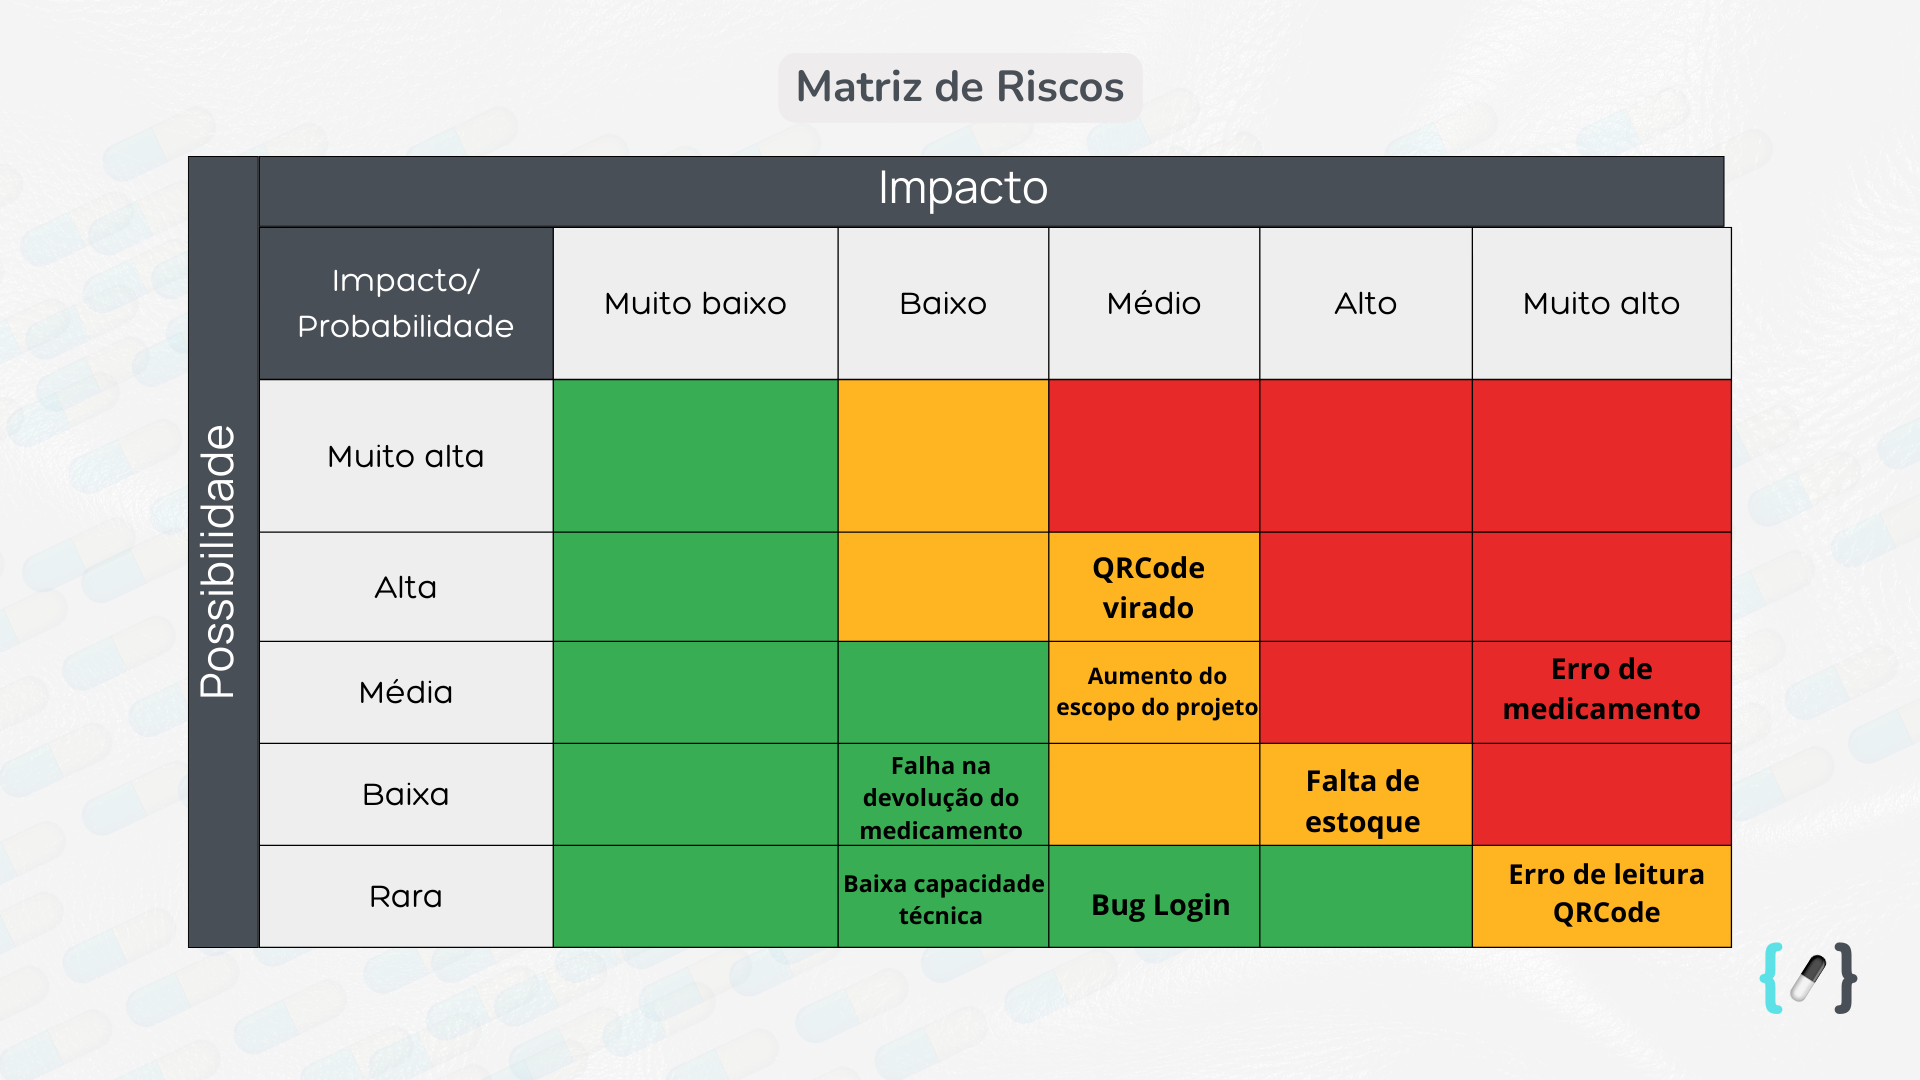
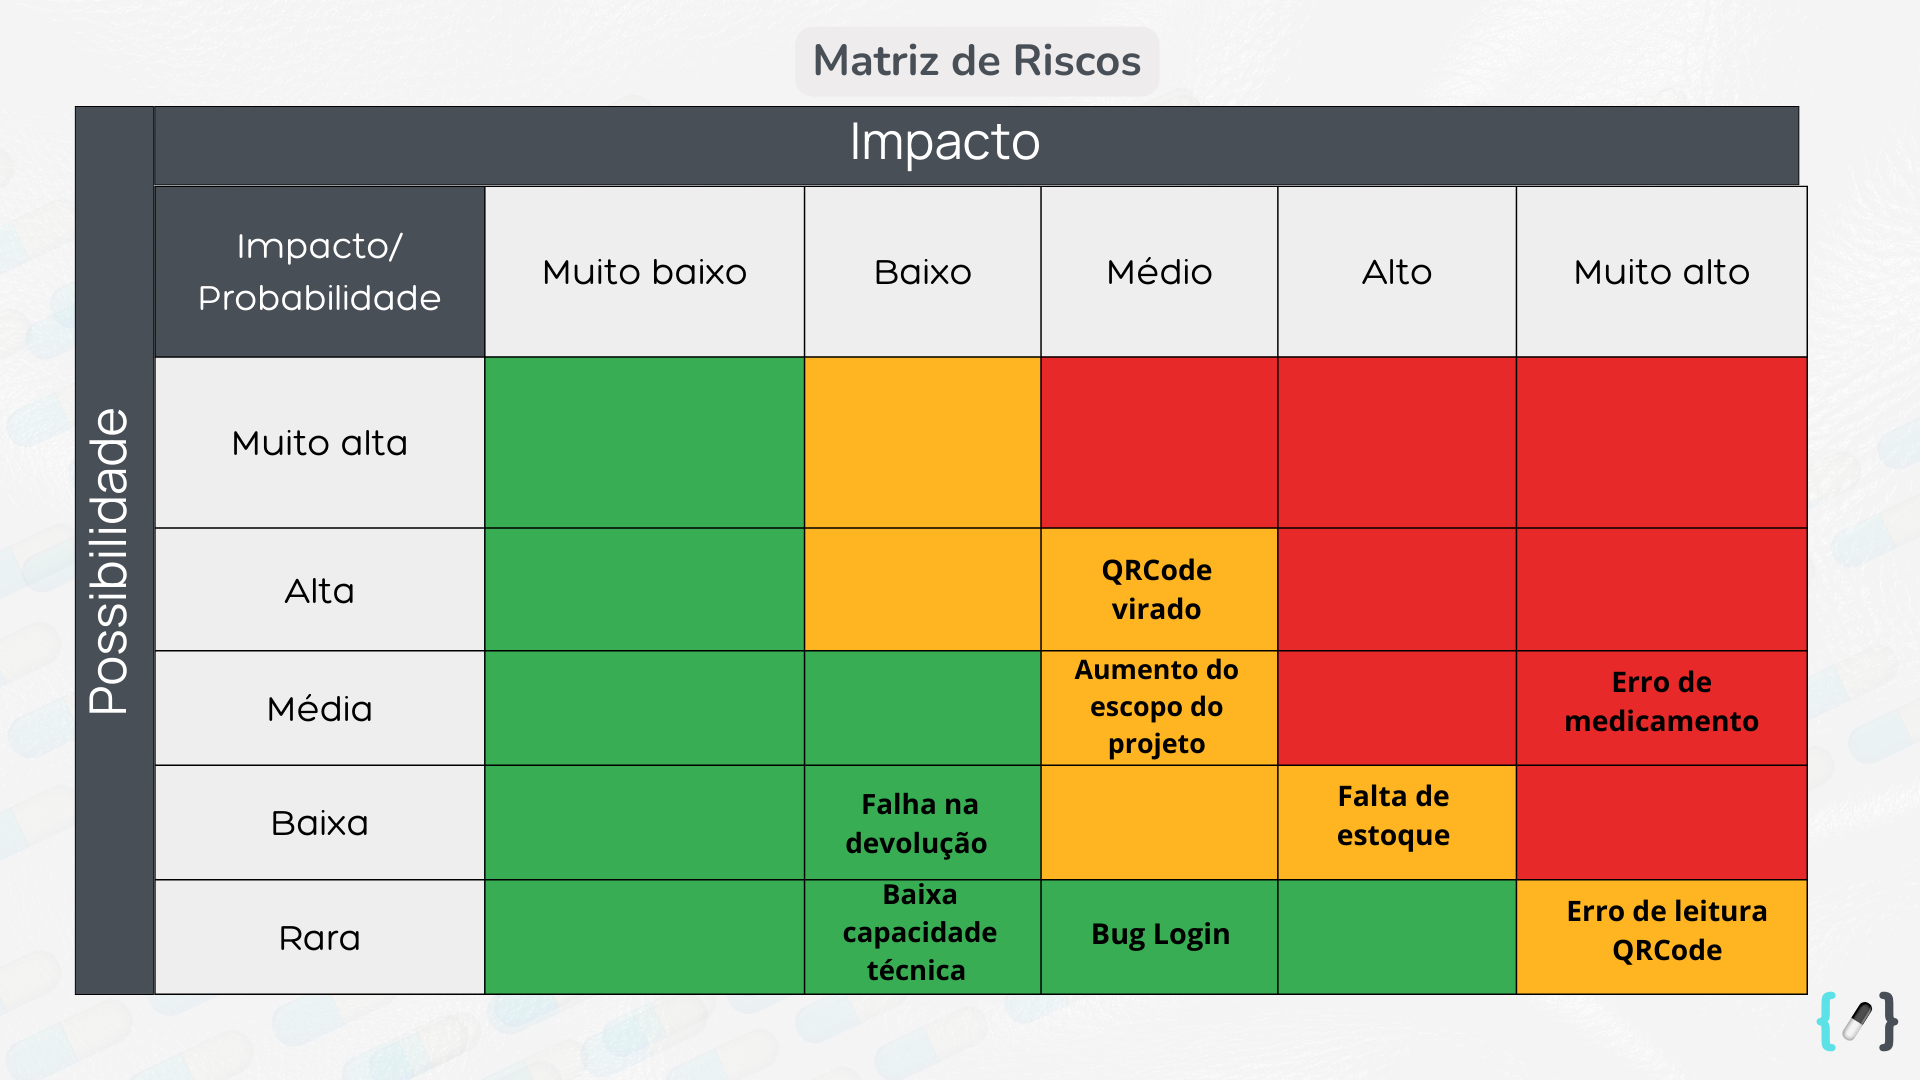
docs:Altera documento conforme correções exigidas pelos corretores

diff --git a/docs/docs/Matriz-Risco.md b/docs/docs/Matriz-Risco.md
@@ -13,43 +13,59 @@ sidebar_position: 1
 
 ## 📝 Detalhamento
 
- <p>**Chance de erro de medicamento**</p>
+ **Chance de erro de medicamento**
+
  &emsp;Os medicamentos podem ser trocados de posição, o que vai fazer com que o robô possa pegar um medicamento errado.
-<p>Para sanar esse risco, recomenda-se sempre manter o estoque na mesma posição, para que o dobot consiga identificar os insumos corretamente. </p>
-<p>Impacto: Muito Alto / risco: médio </p>
+Para sanar esse risco, recomenda-se sempre manter o estoque na mesma posição, para que o dobot consiga identificar os insumos corretamente. 
 
-<p>**QrCode virado**</p>
+Impacto: Muito alto / Risco: Médio 
+
+**QrCode virado**
+
  &emsp;O QRCode inserido nos insumos pode acabar ficando virado, o que vai impedir o robô de realizar o registro dos medicamentos.
-<p>Para conter esse risco é necessário sempre realizar uma checagem para verificar a posição dos insumos.</p>
+Para conter esse risco é necessário sempre realizar uma checagem para verificar a posição dos insumos.
 
-<p>Impacto:médio /risco: alto</p>
+Impacto: Rédio / Risco: Alto
 
-<p>**Bug no login**</p>
+**Erro na autenticação de usuários**
 
-&emsp;O login pode acabar não identificando o usuário devido a um bug dentro do código. Para corrigir esse risco, deve-se realizar testes unitários para garantir o funcionamento dessa feature.
+ &emsp;O sistema de login pode falhar ao identificar corretamente o usuário, impedindo o acesso ao sistema. Isso pode ocorrer por falhas na comunicação com o banco de dados, expiração indevida da sessão, erros na criptografia das credenciais ou falhas na validação de permissões.
+
+Para mitigar esse risco, devem ser implementados testes unitários e de integração para validar diferentes cenários de login
  
-<p>Impacto: médio/risco: raro</p>
+Impacto: Médio / Risco: Raro
 
- <p>**Falta de estoque**</p>
- O estoque de um dos insumos pode acabar findando, o que impossibilita o robô de pegar o medicamento, atrasando a montagem da fita. Para sanar esse risco, deve-se sempre realizar o estoque dos insumos.
- <p>Impacto: alto /risco: baixo</p>
+ **Falta de estoque**
 
- <p>**Erro da leitura do qrcode.**</p>
+  &emsp;O estoque de um dos insumos pode acabar findando, o que impossibilita o robô de pegar o medicamento, atrasando a montagem da fita. Para sanar esse risco, deve-se sempre realizar o estoque dos insumos.
+ 
+ Impacto: Alto / Risco: Baixo
+
+ **Erro da leitura do qrcode.**
+
  &emsp;O leitor de QRCode/código de barras, pode acabar sendo lido errado, devido a riscos, manchas ou erros de impressão. Para mitigar esse risco, deve-se testar em múltiplos cenários a leitura do QRCode/Código de barras.
- <p>Impacto: muito alto /risco: raro</p>
 
-<p>**Falha na devolução do medicamento**</p>
- &emsp;Quando o medicamento retornar, ele pode não conseguir identificar o bin no qual aqueles medicamentos pertencem, fazendo com que nãoregistre qual paciente devolveu qual insumo.
-Para mitigar esse risco, o sistema deve registrar automaticamente todas as tentativas de devolução e exigir uma confirmação manual ou via sensor antes de considerar o medicamento disponível novamente no estoque.
-<p> Impacto: baixo /risco: baixo</p>
+ Impacto: Muito Alto / Risco: Raro
 
-<p>**Aumento do escopo do projeto**</p>
-&emsp; O projeto pode ter seu escopo aumentado além da capacidade de produção dos membros, o que pode gerar queda na qualidade da entrega e frustração dos membros, para mitigar isso, deve-se ter um escopo bem definido levando em conta a capacidade produtiva dos membros .
-<p>Impacto: médio /risco: médio</p>
+**Falha na devolução do medicamento**
 
-<p>**Baixa capacidade técnica dos colaboradores**</p>
+&emsp;Quando o medicamento retornar, ele pode não conseguir identificar o bin no qual aqueles medicamentos pertencem, fazendo com que nãoregistre qual paciente devolveu qual insumo.
+
+Para mitigar esse risco realizar confirmação manual pode ser uma posibilidade para garantir a devolução correta dos insumos.
+
+Impacto: Baixo / Risco: Baixo
+
+**Aumento do escopo do projeto**
+
+&emsp; O projeto pode ter seu escopo aumentado além da capacidade de produção dos membros, o que pode gerar queda na qualidade da entrega e frustração dos membros, para mitigar isso, deve-se ter um escopo bem definido levando em conta a capacidade produtiva dos membros.
+
+Impacto: Médio / Risco: Médio
+
+**Baixa capacidade técnica dos colaboradores**
+
 &emsp;O projeto pode necessitar de uma capacidade técnica além do que os membros da equipe possuem, o que por sua vez pode gerar atrasos devido ao tempo de aprendizado dos colaboradores.
-<p>Impacto: baixo /risco: raro</p>
+
+Impacto: Baixo / Risco: Raro
 
 ## ✅ Conclusão
 &emsp;Para garantir o sucesso do projeto, é importante que cada risco seja monitorado e que as medidas de prevensão sejam implementadas desde o início do projeto. O uso de testes automatizados e boas práticas de desenvolvimento é fundamental para reduzir falhas e garantir a qualidade do projeto.
